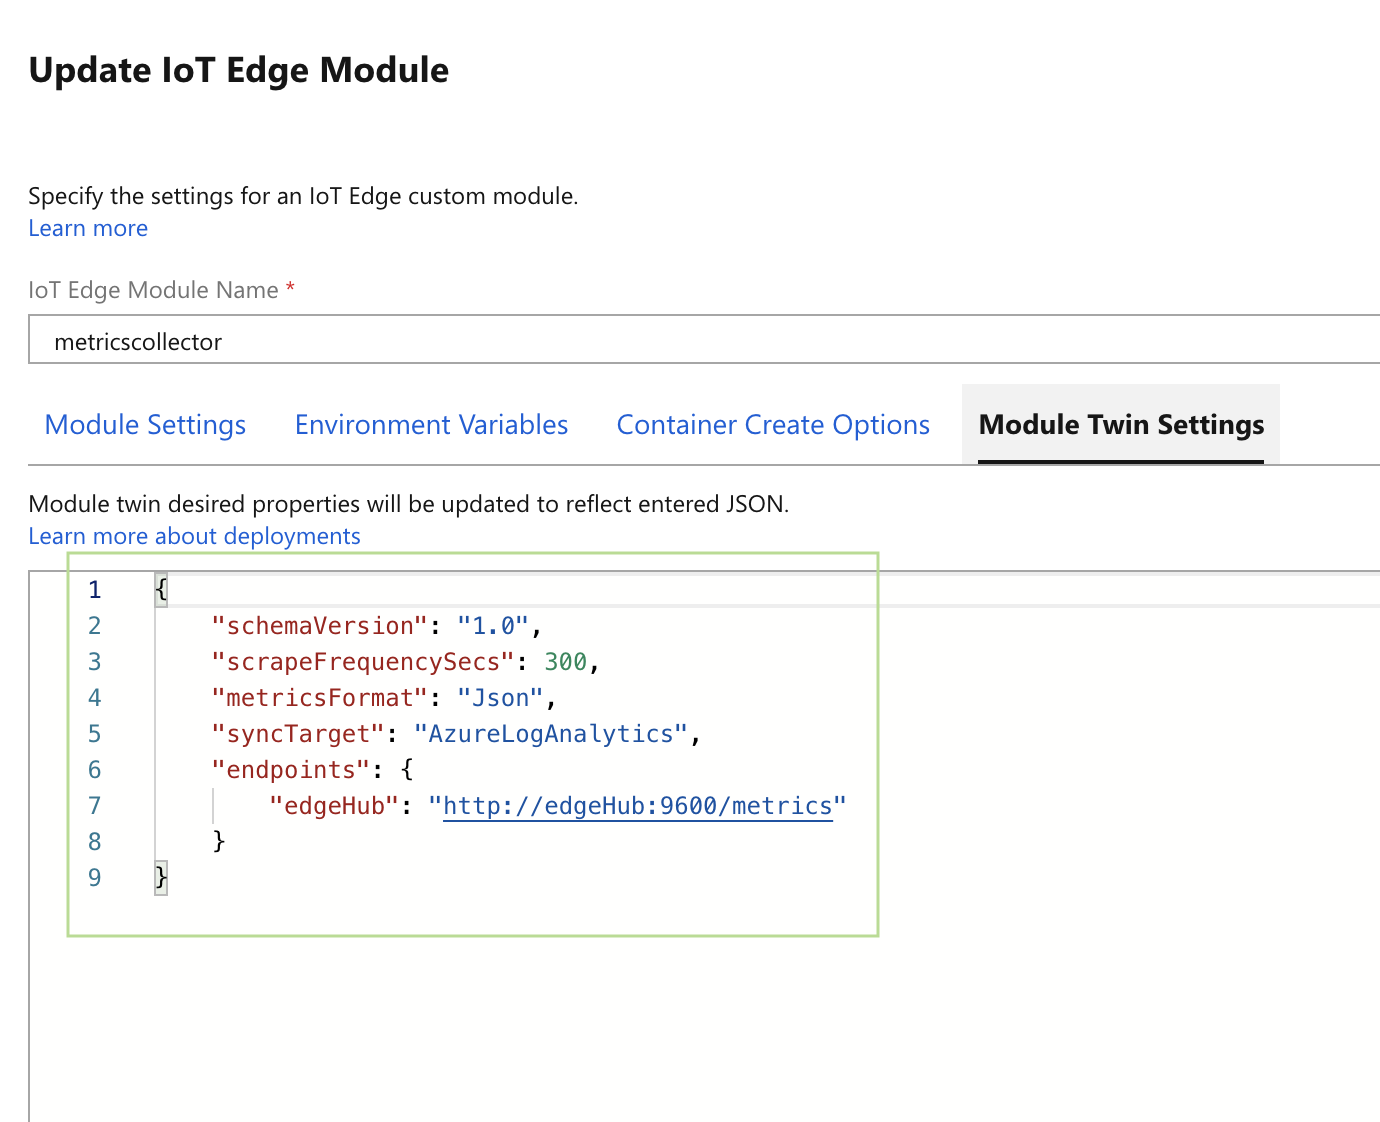
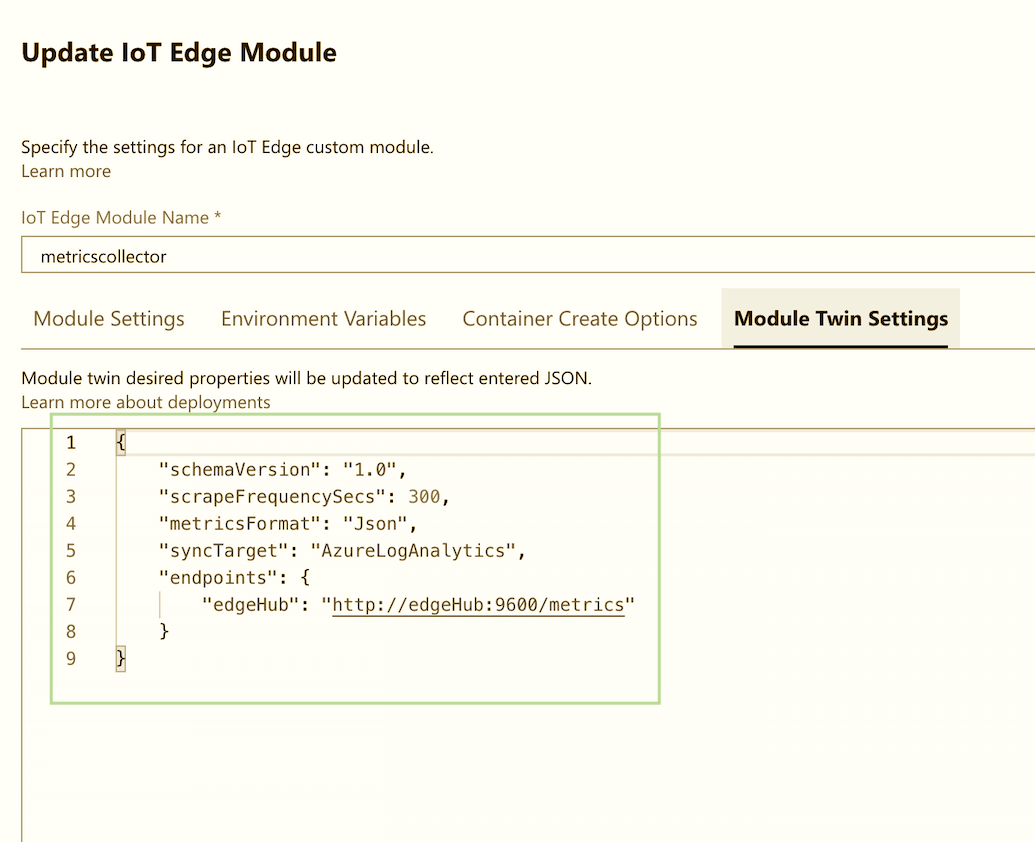
edit size

diff --git a/README.md b/README.md
@@ -95,7 +95,7 @@
     }
     ```
 
-    > 💣 If you're using the portal, remove the `"properties.desired"` text as it's added automatically:
+    > 💣 If you're using the portal, remove the `"properties.desired"` text as it's added automatically. See the screenshot below:
 
     ![](media/portal-desired-props.png)
 
